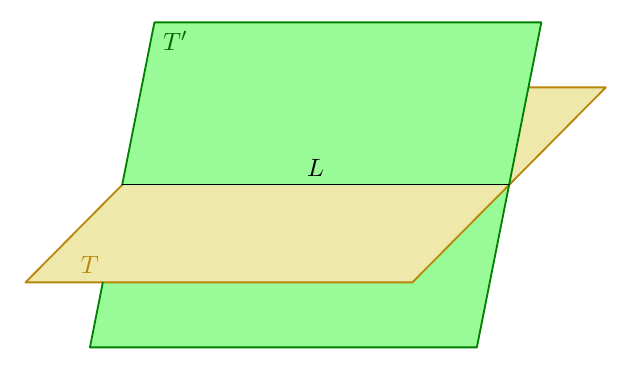
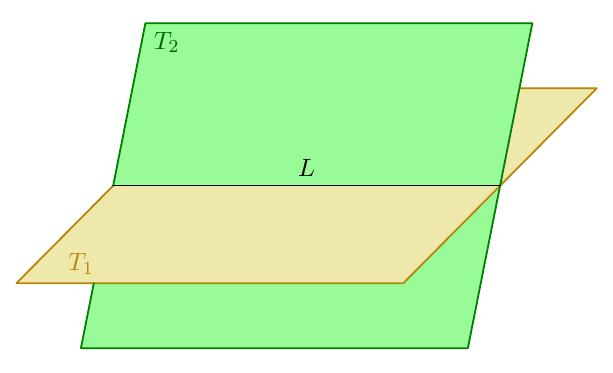
Lisää

Changed region(s): [[0.031, 0.0596, 0.9918, 0.9539]]

diff --git a/kurssit/maa3/luku3/index.html b/kurssit/maa3/luku3/index.html
@@ -416,10 +416,21 @@ topnav: maa3
             </div>
             
             <p>
-                Myös tasojen $T$ ja $T'$ välinen kulma määritellään kahden suoran välisen kulman avulla.
+                Myös tasojen $T_1$ ja $T_2$ välinen kulma määritellään kahden suoran välisen kulman avulla.
                 <br>
                 <img src="/kurssit/maa3/kuvat/avaruusK75.png" max-width: 100%; width: auto; height: auto;/> 
             </p>
+
+            <div class="definition">
+                <h3>MÄÄRITELMÄ: TASOJEN VÄLINEN KULMA</h3>
+                <p>
+                    Olkoon $T$ taso, joka on kohtisuorassa tasojen $T_1$ ja $T_2$ leikkaussuoraa $L$ vastaan. Taso $T$ leikkaa tason $T_1$ pitkin suoraa $L_1$ ja tason $T_2$ pitkin suoraa $L_2$.
+                    <br> 
+                    <img src="/kurssit/maa3/kuvat/avaruusK76b.png" max-width: 100%; width: auto; height: auto;/> 
+                    <br>
+                    <em>Tasojen $T_1$ ja $T_2$ välinen kulma</em> on suorien $L_1$ ja $L_2$ välinen kulma.
+                </p>
+            </div>
 
         </div>
     </section>
